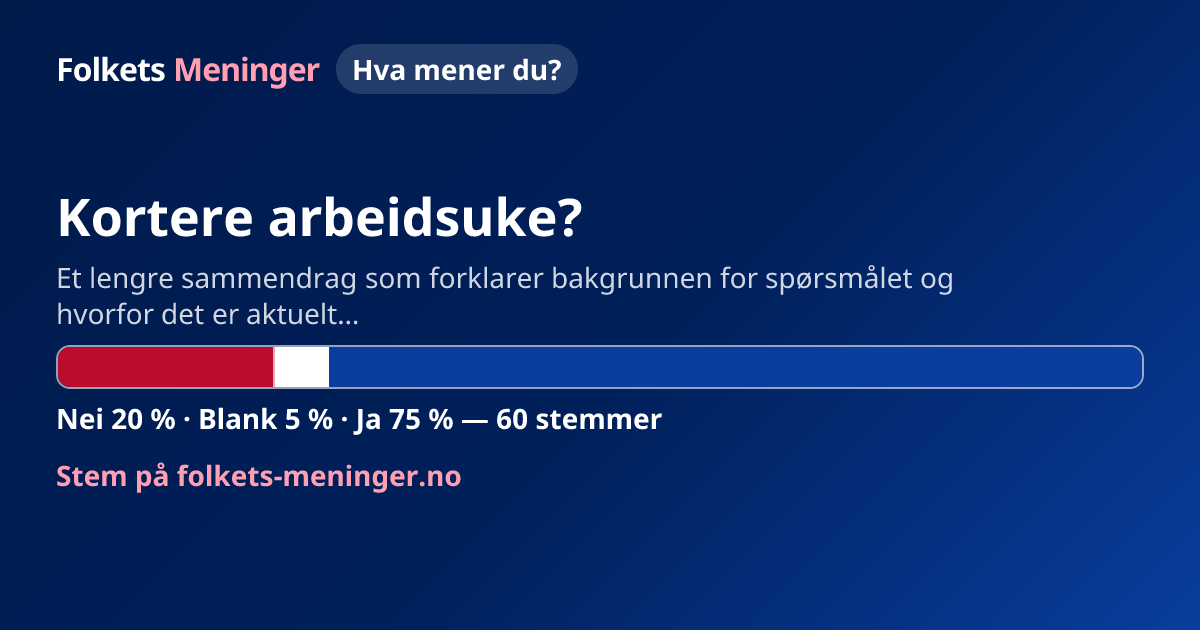
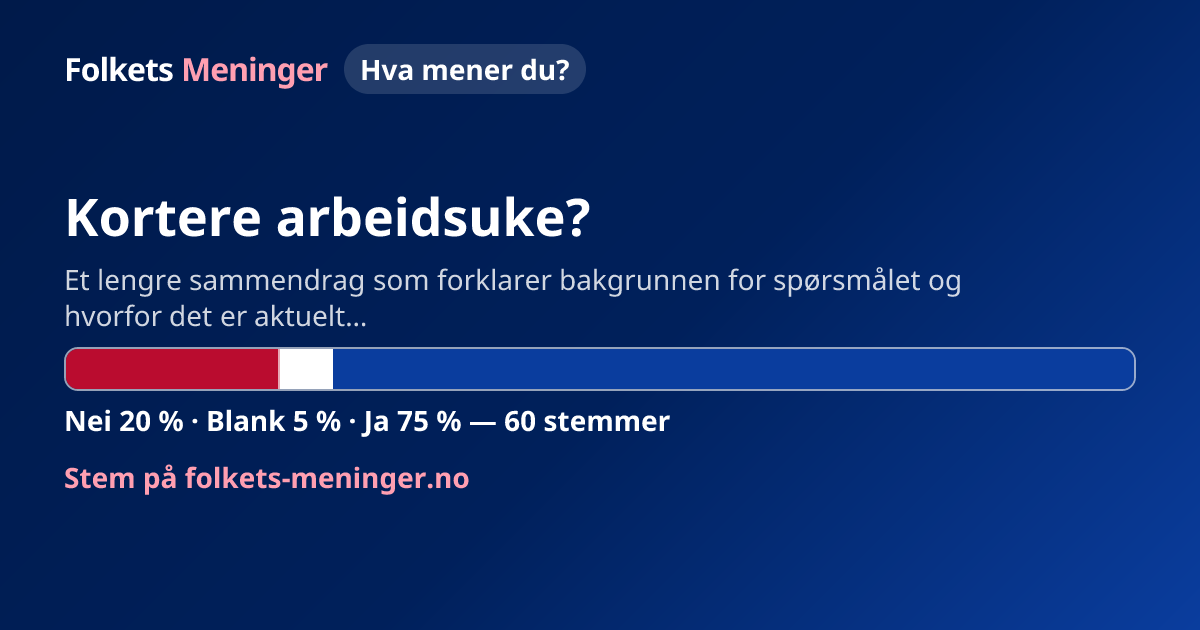
fix(og): poll title line-clamp, bar colors, sak sample
Use -webkit-line-clamp for two-line titles with descender-safe line-height;
char fallback by font size. Muted low-sample bar fills; poll padding 64px.
Stat dots get white border for contrast. New og-sample-sak and 85-char title PNG.

diff --git a/lib/polls/share-og.tsx b/lib/polls/share-og.tsx
@@ -30,7 +30,14 @@ const TITLE_MAX_LINES = 2;
 /** Summary only when the title fits on a single line at max size. */
 const SUMMARY_TITLE_MAX_CHARS = 46;
 const CARD_PADDING_Y = 44;
-const CARD_PADDING_X = 56;
+const CARD_PADDING_X = 64;
+
+/** Muted bar fills when totals are below proportional threshold (no opacity on navy). */
+const LOW_SAMPLE_BAR_SEGMENT: Record<'nei' | 'blank' | 'ja', { background: string }> = {
+  nei: { background: '#7a3848' },
+  blank: { background: '#e8ecf4' },
+  ja: { background: '#4a6a9e' },
+};
 
 export function pollOgImageAlt(title: string, totals: PollTotals): string {
   return pollOgImageAltText(title, totals);
@@ -50,16 +57,26 @@ function titleFontSize(length: number): number {
   return 40;
 }
 
+/** Rough two-line capacity at card width (fallback if line-clamp ellipses poorly in Satori). */
+function maxPollTitleChars(fontSize: number): number {
+  if (fontSize >= OG_TITLE_MAX_PX) return 78;
+  if (fontSize >= 46) return 84;
+  return 96;
+}
+
 function titleBoxStyle(fontSize: number) {
-  const lineHeight = 1.12;
+  const size = Math.min(fontSize, OG_TITLE_MAX_PX);
+  const lineHeight = 1.2;
   return {
-    display: 'flex',
-    fontSize: Math.min(fontSize, OG_TITLE_MAX_PX),
+    display: '-webkit-box',
+    WebkitBoxOrient: 'vertical' as const,
+    WebkitLineClamp: TITLE_MAX_LINES,
+    overflow: 'hidden',
+    textOverflow: 'ellipsis',
+    fontSize: size,
     fontWeight: 700,
     lineHeight,
     maxWidth: 1060,
-    maxHeight: Math.round(Math.min(fontSize, OG_TITLE_MAX_PX) * lineHeight * TITLE_MAX_LINES),
-    overflow: 'hidden' as const,
   };
 }
 
@@ -104,22 +121,24 @@ function pollResultsBar(totals: PollTotals) {
               />
             ))
         ) : (
-          segments.map((segment, index) => (
-            <div
-              key={segment.choice}
-              style={{
-                display: 'flex',
-                flex: 1,
-                height: '100%',
-                background: segment.background,
-                opacity: segment.choice === 'blank' ? 0.9 : 0.28,
-                ...(segment.choice === 'blank'
-                  ? { border: '2px solid rgba(255,255,255,0.55)' }
-                  : {}),
-                ...segmentSeparatorStyle(index === segments.length - 1),
-              }}
-            />
-          ))
+          segments.map((segment, index) => {
+            const lowStyle = LOW_SAMPLE_BAR_SEGMENT[segment.choice];
+            return (
+              <div
+                key={segment.choice}
+                style={{
+                  display: 'flex',
+                  flex: 1,
+                  height: '100%',
+                  background: lowStyle.background,
+                  ...(segment.choice === 'blank'
+                    ? { border: '2px solid rgba(255,255,255,0.55)' }
+                    : {}),
+                  ...segmentSeparatorStyle(index === segments.length - 1),
+                }}
+              />
+            );
+          })
         )}
       </div>
       <div style={{ display: 'flex', fontSize: OG_TEXT_MIN_PX, fontWeight: 700, lineHeight: 1.25 }}>
@@ -151,8 +170,9 @@ export async function renderPollShareOgImage(
   cacheControl: string = OG_IMAGE_CACHE_CONTROL,
 ): Promise<ImageResponse> {
   const fonts = await loadOgFonts();
-  const title = clampText(poll.title, 130);
-  const titleSize = titleFontSize(title.length);
+  const rawTitle = clampText(poll.title, 130);
+  const titleSize = titleFontSize(rawTitle.length);
+  const title = clampText(rawTitle, maxPollTitleChars(titleSize));
   const showSummary = title.length <= SUMMARY_TITLE_MAX_CHARS && Boolean(poll.neutralSummary);
   const summary = showSummary ? clampText(poll.neutralSummary, 88) : '';
 

diff --git a/scripts/render-og-samples.ts b/scripts/render-og-samples.ts
@@ -9,6 +9,7 @@ import type { PollRecord } from '@/lib/polls/types';
 (globalThis as typeof globalThis & { React: typeof React }).React = React;
 import { renderBlogPostOgImage } from '@/lib/blog/og-image';
 import { renderPollShareOgImage } from '@/lib/polls/share-og';
+import { renderShareOgImage } from '@/lib/seo/share-og';
 
 const outDir = process.env.OG_SAMPLE_DIR ?? '/workspace/docs/og-samples';
 
@@ -46,6 +47,10 @@ const basePoll: PollRecord = {
 
 const longTwoLineTitle =
   'Skal staten gå videre med omfattende endringer i skatte- og avgiftsregelverket for næringsliv og privatpersoner i hele landet, også i distriktene, på kort sikt?';
+
+/** ~87 tegn — tittelstørrelse 46px, to linjer + ellipsis uten å kappe descenders. */
+const title85To90Chars =
+  'Skal staten innføre nye avgiftsregler for næringsliv og privatpersoner i hele landet?';
 
 async function main() {
   mkdirSync(outDir, { recursive: true });
@@ -97,6 +102,14 @@ async function main() {
   );
 
   await savePng(
+    'og-sample-poll-title-85-chars.png',
+    await renderPollShareOgImage(
+      { ...basePoll, title: title85To90Chars, neutralSummary: 'Skjult ingress.' },
+      { nei: 12, blank: 3, ja: 45, total: 60 },
+    ),
+  );
+
+  await savePng(
     'og-sample-poll-short-title-summary.png',
     await renderPollShareOgImage(
       {
@@ -115,6 +128,20 @@ async function main() {
       'Grunnlovsforslag om uavhengig offentlig påtale',
       'Kort ingress med æøå for typografi.',
     ),
+  );
+
+  await savePng(
+    'og-sample-sak.png',
+    await renderShareOgImage({
+      eyebrow: 'Stortingssak',
+      title: 'Endringer i skatte- og avgiftsregelverket (2025–2026)',
+      description: 'Komité: Finans- og næringskomiteen',
+      pills: [
+        { label: 'Proposisjon', tone: 'neutral' },
+        { label: 'Under behandling', tone: 'positive' },
+      ],
+      footer: 'folkets-meninger.no · Hva mener du om saken?',
+    }),
   );
 
   console.log('all PNGs verified 1200×630');

diff --git a/lib/seo/share-og.tsx b/lib/seo/share-og.tsx
@@ -177,7 +177,17 @@ export async function renderShareOgImage(
                     fontWeight: 700,
                   }}
                 >
-                  <div style={{ display: 'flex', width: 14, height: 14, borderRadius: 999, background: stat.color }} />
+                  <div
+                    style={{
+                      display: 'flex',
+                      width: 14,
+                      height: 14,
+                      borderRadius: 999,
+                      background: stat.color,
+                      border: '2px solid #ffffff',
+                      boxSizing: 'border-box',
+                    }}
+                  />
                   <span>{stat.label}</span>
                   <span style={{ color: 'rgba(255,255,255,0.75)' }}>{stat.value}</span>
                 </div>

diff --git a/docs/og-samples/README.md b/docs/og-samples/README.md
@@ -10,5 +10,7 @@ Generated with `OG_SAMPLE_DIR=docs/og-samples npx tsx scripts/render-og-samples.
 | `og-sample-poll-glyphs.png` | æøå ÆØÅ · … |
 | `og-sample-poll-long-title.png` | Lang tittel (2 linjer), uten ingress |
 | `og-sample-poll-long-title-few-votes.png` | Lang tittel + få stemmer |
+| `og-sample-poll-title-85-chars.png` | ~85–90 tegn tittel (2 linjer + …) |
 | `og-sample-poll-short-title-summary.png` | Kort tittel + ingress |
 | `og-sample-blog.png` | Blogg-kort |
+| `og-sample-sak.png` | Stortingssak-kort |
